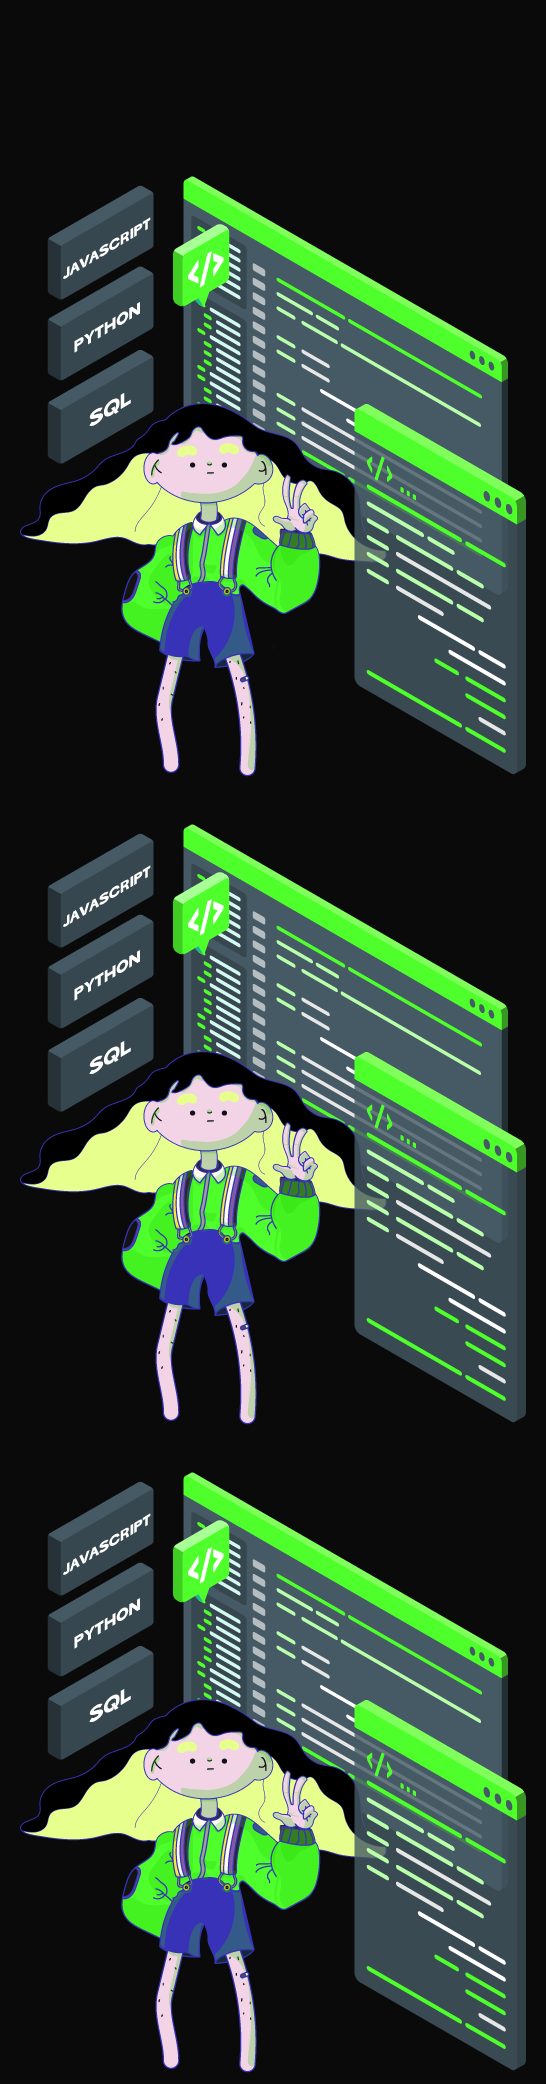
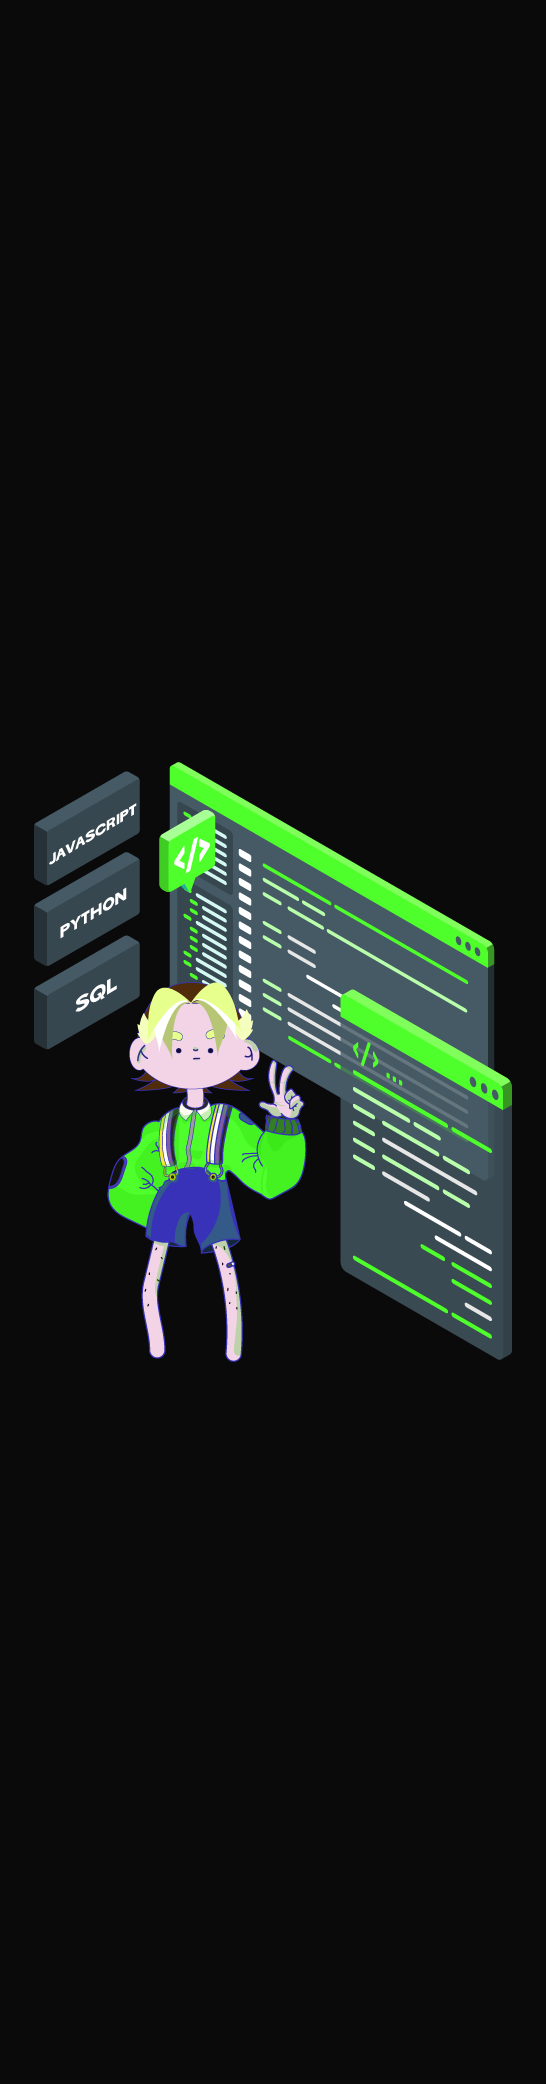
style: change ilustration and navigation links

diff --git a/src/components/Contacts/index.tsx b/src/components/Contacts/index.tsx
@@ -48,7 +48,7 @@ export const Contacts = () => {
                   My Whatsapp
                 </Text>
                 <Text color="grey2" type="body2">
-                  I'm available for a voice chat, let's talk?
+                  I'm available for messages or voice chat
                 </Text>
                 <Text
                   as="a"
@@ -71,8 +71,7 @@ export const Contacts = () => {
                   My Email
                 </Text>
                 <Text color="grey2" type="body2">
-                  Send me an email reporting feedbacks, suggestions, invites,
-                  etc
+                  Send me an email reporting feedbacks, sending invites, etc
                 </Text>
 
                 <Text
@@ -98,7 +97,7 @@ export const Contacts = () => {
                   My LinkedIn
                 </Text>
                 <Text color="grey2" type="body2">
-                  We can create more constant interactions as well as a sharing
+                  We can create more constant interactions as well as sharing
                   network
                 </Text>
                 <Text

diff --git a/src/pages/home/index.tsx b/src/pages/home/index.tsx
@@ -63,8 +63,8 @@ export const Home = (): JSX.Element => {
               <Button as="a" type="primary" href="#projects">
                 See Projects
               </Button>
-              <Button as="a" type="outline" href="#techs">
-                Check the techs I am familiar with
+              <Button as="a" type="outline" href="#contact">
+                Let's talk!
               </Button>
               <Button
                 color="grey5"

diff --git a/src/pages/home/style.tsx b/src/pages/home/style.tsx
@@ -79,10 +79,10 @@ export const StackSection = styled("div", {
 export const StackCards = styled("div", {
   display: "grid",
   gridTemplateColumns: "1fr 1fr 1fr 1fr",
-  padding: "6rem 0 1rem",
+  padding: "3rem 0 0",
   gap: "6rem",
-  marginTop: "5rem",
-
+  /*   marginTop: "5rem",
+   */
   "@tablet": {
     gridTemplateColumns: "1fr 1fr 1fr",
   },
